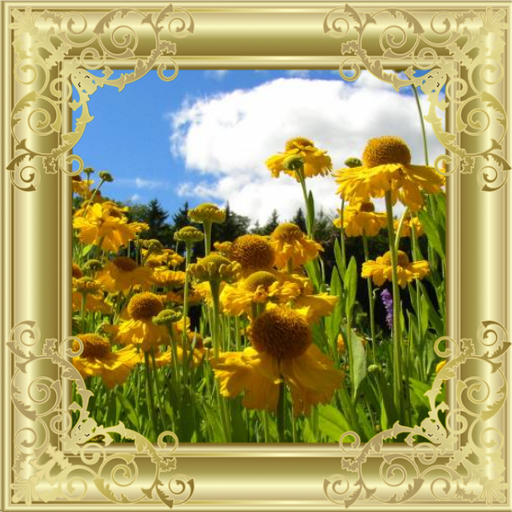
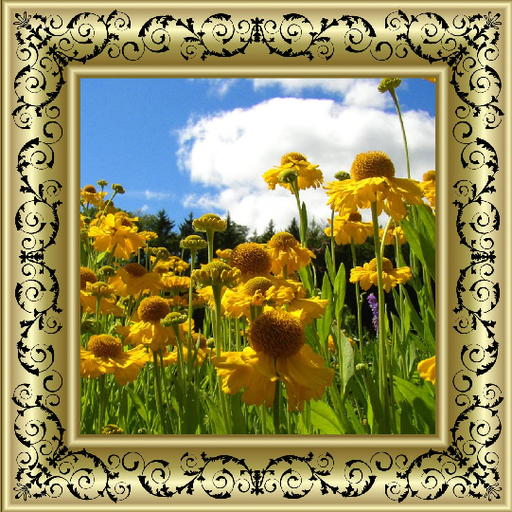
sx
sxxs

diff --git a/js/funcionalitat.js b/js/funcionalitat.js
@@ -1,15 +1,61 @@
-var temes = new Array("abstract","animals","cats","city","food","nightlife","fashion","nature","sports","transport");
+var adresa;
+var num_imatges_h=1;
+var num_imatges_v=1;
+var orientacio = (window.screen.availWidth > window.screen.availHeight ? "h" : "v" );
 
 function carregaImatge() {
-	var tema = temes[Math.floor(Math.random() * temes.length)];
-	document.body.style.backgroundImage='url("http://lorempixel.com/' + window.screen.availWidth + '/' + window.screen.availHeight + '/' + tema + '")';
+	var num_imatges = (orientacio == "h" ? num_imatges_h : num_imatges_v);
+	httpGetAdresa(Math.floor(Math.random() * num_imatges));
+	document.body.style.backgroundImage="url(" + adresa + ")";
 }
+
+function httpGetAdresa(num){
+	var xmlhttp = new XMLHttpRequest();
+	var url = " http://www.corsproxy.com/randomframe.esy.es/?num=" + num + "&orientacio=" + orientacio;
+	
+	xmlhttp.onreadystatechange = function() {
+		if (xmlhttp.readyState == 4 && xmlhttp.status == 200) {
+			var myArr = JSON.parse(xmlhttp.responseText);
+			myFunction(myArr);
+		}
+	}
+	xmlhttp.open("GET", url, true);
+	xmlhttp.send();
+	
+	function myFunction(arr) {
+		adresa=arr.adresa;
+	}
+}
+
+function httpGetNumImatges(){
+	var xmlhttp = new XMLHttpRequest();
+	var url = " http://www.corsproxy.com/randomframe.esy.es/?num=x";
+	
+	xmlhttp.onreadystatechange = function() {
+		if (xmlhttp.readyState == 4 && xmlhttp.status == 200) {
+			var myArr = JSON.parse(xmlhttp.responseText);
+			myFunction(myArr);
+		}
+	}
+	xmlhttp.open("GET", url, true);
+	xmlhttp.send();
+	
+	function myFunction(arr) {
+		num_imatges_h=arr.num_imatges_h;
+		num_imatges_v=arr.num_imatges_v;
+		carregaImatge();
+	}
+}
+
+
+
 function createSelectedBanner() {
 	AdMob.createBanner( {adId:admobid.banner} );
 }
+
 function onLoad() {
+	httpGetNumImatges();
 	setInterval(function() {carregaImatge();}, 15000);
-	carregaImatge();
 	if(( /(ipad|iphone|ipod|android)/i.test(navigator.userAgent) )) {
 		document.addEventListener('deviceready', initApp, false);
 	} else {
@@ -31,7 +77,7 @@ function initApp() {
 	if (! AdMob ) { alert( 'admob plugin not ready' ); return; }
 	initAd();
 	// display the banner at startup
-	//createSelectedBanner();
+	createSelectedBanner();
 }
 function initAd(){
 	var defaultOptions = {
@@ -40,7 +86,7 @@ function initAd(){
 		position: AdMob.AD_POSITION.BOTTOM_CENTER,
 		offsetTopBar: false, // avoid overlapped by status bar, for iOS7+
 		bgColor: 'black', // color name, or '#RRGGBB'
-		isTesting: false, // set to true, to receiving test ad for testing purpose
+		isTesting: true, // set to true, to receiving test ad for testing purpose
 		autoShow: true // auto show interstitial ad when loaded, set to false if prepare/show
 	};
 	AdMob.setOptions( defaultOptions );
@@ -63,7 +109,10 @@ function registerAdEvents() {
 }
 
 function onResize(){
-	carregaImatge();
+	var or_antic = orientacio;
+	orientacio = (window.screen.availWidth > window.screen.availHeight ? "h" : "v" );
+	if (or_antic != orientacio) {carregaImatge();}
+	
 	var s = document.getElementById('sizeinfo');
 	s.innerHTML = "web view: " + window.innerWidth + " x " + window.innerHeight;
 }

diff --git a/index.html b/index.html
@@ -1,20 +1,3 @@
-<!--<!doctype html>
-<html>
-
-<head>
-  <meta charset="utf-8">
-  <title>Random Images</title>
-  <script src="js/func.js" type="text/javascript"></script>
-  <script src="phonegap.js"></script>
-</head>
-
-<body onLoad="onLoad()" onResize="carregaImatge()">
-
- 
-</body>
-
-</html>-->
-
 <!DOCTYPE html>
 <html>
 <head>
@@ -26,6 +9,7 @@
 <script type="text/javascript" src="cordova.js"></script>
 <script type="text/javascript" src="js/funcionalitat.js"></script>
 </head>
-<body onload="onLoad()" onresize="onResize()">
+<body style="background:no-repeat center center fixed; -webkit-background-size: cover; -moz-background-size: cover; -o-background-size: cover; background-size: cover;" onload="onLoad()" onresize="onResize()">
+	<div id="imatge"></div>
 </body>
 </html>
